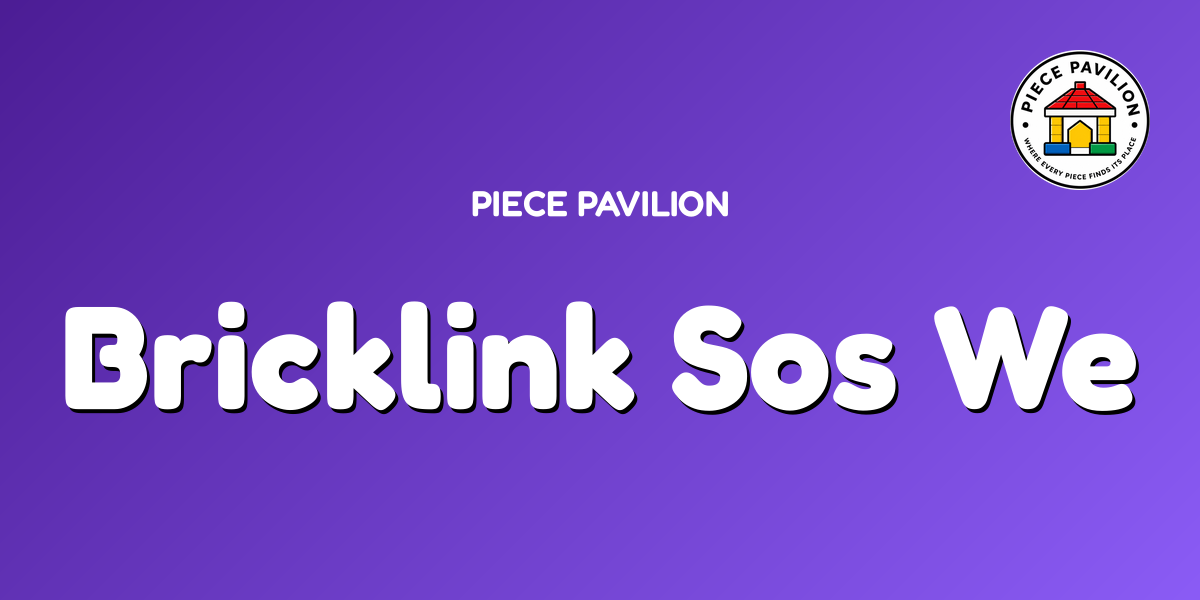
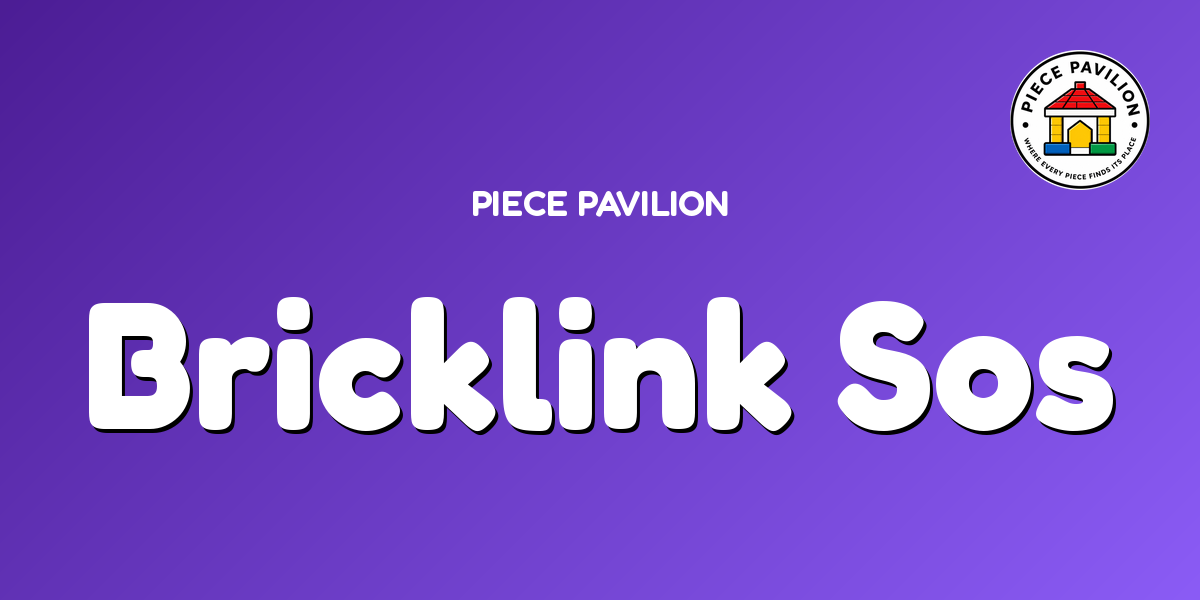
Correct blog cover labels and remove homepage fireworks
Remove only the requested trailing words from two blog thumbnails. Preserve article titles, confetti, seasonal bats and other homepage behavior.

Changed region(s): [[0.0308, 0.48, 0.9558, 0.75], [0.4008, 0.33, 0.5242, 0.36], [0.555, 0.33, 0.6167, 0.36]]

diff --git a/script.js b/script.js
@@ -470,7 +470,7 @@ const loadBannerConfig = () => {
 // the first render. If it misses, renderTicker() leaves the already-
 // visible banner alone (see the is-ready guard in renderTicker).
 // Fire the fetches, but reveal the banner right away so the first
-// visible frame is in sync with the confetti + fireworks. The fetches
+// visible frame is in sync with the confetti. The fetches
 // will enrich the ticker in place when they land.
 loadLatestBlog();
 loadBannerConfig();
@@ -783,7 +783,7 @@ if (usMap) {
 }
 
 // ===== HOMEPAGE WELCOME EFFECT =====
-// Normally fires once per browser session as a confetti burst.
+// Fires on each homepage load as a confetti burst.
 // Switches to flying bats during Halloween week — rules:
 //   - 2026 only:  Oct 29 through Nov 1 at 00:00 local
 //   - 2027+:      Oct 20 through Nov 1 at 06:00 local
@@ -793,9 +793,7 @@ if (usMap) {
   const forced     = /[?&](confetti|bats)/.test(location.search);
   const forceBats  = /[?&]bats/.test(location.search);
   const forceConfetti = /[?&]confetti/.test(location.search) && !forceBats;
-  // Fire on EVERY homepage load (Dad's 2026-11-04 ask): the confetti +
-  // fireworks should play again when he refreshes the page, not stay
-  // suppressed for the rest of the session. Only honour the OS-level
+  // Keep confetti on every homepage load, respecting the OS-level
   // "reduced motion" accessibility preference.
   if (!forced && window.matchMedia('(prefers-reduced-motion: reduce)').matches) return;
 
@@ -822,14 +820,13 @@ if (usMap) {
   cv.width  = window.innerWidth  * dpr;
   cv.height = window.innerHeight * dpr;
 
-  // Delay confetti + fireworks until the banner pops, so the paper +
-  // Fire confetti + fireworks immediately on page load.
+  // Fire confetti immediately on page load.
   {
     if (halloween) runBats(ctx, cv, dpr);
-    else           runConfettiAndFireworks(ctx, cv, dpr);
+    else           runConfetti(ctx, cv, dpr);
   }
 
-  function runConfettiAndFireworks(ctx, cv, dpr) {
+  function runConfetti(ctx, cv, dpr) {
     // Halloween colors (orange + black + purple) inside the Halloween window
     // so even if the bats fail for some reason, the fallback still feels festive.
     const insideHalloween = halloween || isHalloweenWindow(new Date());
@@ -851,107 +848,16 @@ if (usMap) {
         color: COLORS[(Math.random() * COLORS.length) | 0],
       });
     }
-    // --- Fireworks. Each shell is a (cx, cy, when) spawn that bursts into
-    // ~90 radial sparks with gravity + per-spark fade. 14 shells scheduled
-    // across the 5s window. Sparks render as a glow stack (soft outer
-    // halo + bright white core) so they pop against both the light hero
-    // background and whatever hero image Dad swaps in later. A brief
-    // white flash at burst time punches the shell's arrival.
     const t0 = performance.now();
-    // Confetti stays on for 5 s; fireworks run the first 3.5 s so they
-    // feel like a quick celebration rather than a sustained show.
     const DURATION = 5000;
-    const FIREWORKS_WINDOW = 3500;
-    const sparks = [];
-    const flashes = [];
-    const shells = [];
-    for (let i = 0; i < 11; i++) {
-      shells.push({
-        at: t0 + 80 + i * (FIREWORKS_WINDOW / 13) + (Math.random() - 0.5) * 160,
-        cx: (0.08 + Math.random() * 0.84) * cv.width,
-        cy: (0.15 + Math.random() * 0.38) * cv.height,
-        color: COLORS[(Math.random() * COLORS.length) | 0],
-        fired: false,
-      });
-    }
-    // Thinner + shorter per Dad's 2026-11-04 feedback: spark size shrank
-    // (2.6+rand*2.4 -> 1.4+rand*1.0), glow radius shrank (3.5x -> 2.2x),
-    // and decay sped up so each spark fades in ~70 frames instead of ~110.
-    const burstShell = (sh) => {
-      flashes.push({ x: sh.cx, y: sh.cy, life: 1, decay: 0.12, color: sh.color });
-      const N = 80;
-      for (let i = 0; i < N; i++) {
-        const angle = (i / N) * Math.PI * 2 + Math.random() * 0.08;
-        const speed = (4 + Math.random() * 6) * dpr;
-        sparks.push({
-          x: sh.cx,
-          y: sh.cy,
-          vx: Math.cos(angle) * speed,
-          vy: Math.sin(angle) * speed,
-          life: 1,
-          decay: 0.018 + Math.random() * 0.012,
-          color: sh.color,
-          size: (1.4 + Math.random() * 1.0) * dpr,
-        });
-      }
-    };
     (function frame(t) {
       const now = t || performance.now();
       const elapsed = now - t0;
       ctx.clearRect(0, 0, cv.width, cv.height);
       const fade = elapsed > DURATION - 800 ? Math.max(0, (DURATION - elapsed) / 800) : 1;
-      // Fire any shells whose scheduled time has passed.
-      for (const sh of shells) {
-        if (!sh.fired && now >= sh.at) { sh.fired = true; burstShell(sh); }
-      }
-      // --- Draw burst flashes (behind sparks). ---
-      const hexToRgb = (h) => {
-        const m = h.replace("#", "");
-        const v = m.length === 3
-          ? m.split("").map((c) => parseInt(c + c, 16))
-          : [parseInt(m.slice(0, 2), 16), parseInt(m.slice(2, 4), 16), parseInt(m.slice(4, 6), 16)];
-        return v[0] + "," + v[1] + "," + v[2];
-      };
-      ctx.globalCompositeOperation = "lighter";  // additive -- glows read on light or dark
-      for (const f of flashes) {
-        f.life -= f.decay;
-        if (f.life <= 0) continue;
-        const r = (45 + (1 - f.life) * 100) * dpr;
-        const rgb = hexToRgb(f.color);
-        const g = ctx.createRadialGradient(f.x, f.y, 0, f.x, f.y, r);
-        g.addColorStop(0, "rgba(255,255,255," + (0.55 * f.life * fade).toFixed(3) + ")");
-        g.addColorStop(0.4, "rgba(" + rgb + "," + (0.28 * f.life * fade).toFixed(3) + ")");
-        g.addColorStop(1, "rgba(0,0,0,0)");
-        ctx.fillStyle = g;
-        ctx.fillRect(f.x - r, f.y - r, r * 2, r * 2);
-      }
-      // --- Draw fireworks sparks: thinner halo + small white core. ---
-      for (const s of sparks) {
-        s.x += s.vx;  s.y += s.vy;
-        s.vy += 0.08 * dpr;         // gravity, a touch stronger than confetti
-        s.vx *= 0.985;
-        s.life -= s.decay;
-        if (s.life <= 0) continue;
-        const alpha = Math.max(0, s.life) * fade;
-        const r = s.size * Math.max(0.3, s.life);
-        // Outer colored glow (additive-blended). Tighter radius (2.2x) so
-        // sparks read as pinpricks with a halo, not fat dots.
-        const g = ctx.createRadialGradient(s.x, s.y, 0, s.x, s.y, r * 2.2);
-        g.addColorStop(0, s.color);
-        g.addColorStop(1, "rgba(0,0,0,0)");
-        ctx.globalAlpha = alpha * 0.85;
-        ctx.fillStyle = g;
-        ctx.fillRect(s.x - r * 2.2, s.y - r * 2.2, r * 4.4, r * 4.4);
-        // Bright white core, smaller than before so the pinprick is crisp.
-        ctx.globalAlpha = alpha;
-        ctx.beginPath();
-        ctx.arc(s.x, s.y, r * 0.55, 0, Math.PI * 2);
-        ctx.fillStyle = "#ffffff";
-        ctx.fill();
-      }
       ctx.globalCompositeOperation = "source-over";
       ctx.globalAlpha = fade;
-      // --- Draw confetti rectangles on top. ---
+      // --- Draw confetti rectangles. ---
       ctx.globalAlpha = fade;
       for (const p of parts) {
         p.x += p.vx;  p.y += p.vy;
@@ -1213,3 +1119,4 @@ if (navDropdown) {
   window.addEventListener('scroll', onScroll, { passive: true });
   onScroll();
 })();
+

diff --git a/blog/index.html b/blog/index.html
@@ -208,7 +208,7 @@
   <section class="blog-listing">
     <div class="blog-cards">
       <a href="/blog/bricklink-sos-part-2-november-2026/" class="blog-card">
-        <div class="blog-card-thumb"><img src="/thumb/bricklink-sos-part-2-november-2026.png" alt="" loading="lazy" /></div>
+        <div class="blog-card-thumb"><img src="/thumb/bricklink-sos-part-2-november-2026.png?v=20261107-labels" alt="" loading="lazy" /></div>
         <div class="blog-card-body">
           <span class="blog-card-date">November 6, 2026</span>
           <h2>BrickLink SOS Part 2</h2>
@@ -219,7 +219,7 @@
       </a>
 
       <a href="/blog/bricklink-sos-november-2026-outage/" class="blog-card">
-        <div class="blog-card-thumb"><img src="/thumb/bricklink-sos-november-2026-outage.png" alt="" loading="lazy" /></div>
+        <div class="blog-card-thumb"><img src="/thumb/bricklink-sos-november-2026-outage.png?v=20261107-labels" alt="" loading="lazy" /></div>
         <div class="blog-card-body">
           <span class="blog-card-date">November 6, 2026</span>
           <h2>BrickLink SOS: What We Know About the November 2026 Outage</h2>
@@ -887,6 +887,7 @@
   </script>
 </body>
 </html>
+
 
 
 

diff --git a/index.html b/index.html
@@ -1105,7 +1105,7 @@
   </div><!-- end .main-content -->
 
   <script async src="https://f.convertkit.com/ckjs/ck.5.js" integrity="sha384-jrPr3cryOobCciVpnyICbK0gXiRQxFQMYLwmA1ncyFPJg3m6jwTkIPWwOgJo2lPj" crossorigin="anonymous"></script>
-  <script src="script.js?v=20261105b"></script>
+  <script src="script.js?v=20261107-confetti"></script>
   <!--
     Client-side override for homepage featured items. Reads Dad's staff-editor
     picks from /featured/overrides.json (served by the pp-partout worker from

diff --git a/scripts/rebuild_blog_listing.py b/scripts/rebuild_blog_listing.py
@@ -197,7 +197,7 @@ def generate_thumb_png(title, slug, out_path):
     draw.text(((W - lw) // 2, 180), label, font=label_font, fill=label_ink)
 
     # Big phrase in Fredoka Bold, centered horizontally.
-    phrase = thumb_phrase(title)
+    phrase = thumb_phrase(title, slug)
     font = _fit_font(draw, phrase, FONT_BOLD, W - 120, 180, min_size=72)
     bbox = draw.textbbox((0, 0), phrase, font=font)
     text_w = bbox[2] - bbox[0]
@@ -213,10 +213,19 @@ def generate_thumb_png(title, slug, out_path):
     img.save(out_path, "PNG", optimize=True)
 
 
-def thumb_phrase(title):
+# Explicitly approved thumbnail wording. Full article titles stay unchanged.
+THUMB_PHRASE_OVERRIDES = {
+    "bricklink-sos-part-2-november-2026": "Bricklink Sos",
+    "bricklink-sos-november-2026-outage": "Bricklink Sos",
+}
+
+
+def thumb_phrase(title, slug=None):
     """Pick a 1-3 word punchy phrase in Title Case for the SVG placeholder.
     Models the hand-made thumbs ('Advent 2026', 'Halloween Guide',
     'Minifig Values')."""
+    if slug in THUMB_PHRASE_OVERRIDES:
+        return THUMB_PHRASE_OVERRIDES[slug]
     if not title:
         return "New Post"
     words = re.sub(r"[:,.\!\?]", " ", title).split()
@@ -430,7 +439,8 @@ def render_cards(posts):
     lines = ["\n"]
     for p in posts:
         href = "/blog/%s/" % p["slug"]
-        thumb = '<img src="/thumb/%s.png" alt="" loading="lazy" />' % p["slug"]
+        thumb_version = "?v=20261107-labels" if p["slug"] in THUMB_PHRASE_OVERRIDES else ""
+        thumb = '<img src="/thumb/%s.png%s" alt="" loading="lazy" />' % (p["slug"], thumb_version)
         slug_attr = html.escape(p["slug"], quote=True)
         badge = '<span class="view-badge" data-slug="%s" aria-label="0 views">0</span>' % slug_attr
         card = (
@@ -645,3 +655,4 @@ def write_latest_json(slug):
 
 if __name__ == "__main__":
     main()
+

diff --git a/tests/test_sos_thumbnail_labels.py b/tests/test_sos_thumbnail_labels.py
@@ -1,0 +1,24 @@
+import importlib.util
+from pathlib import Path
+import unittest
+ROOT=Path(__file__).resolve().parents[1]
+spec=importlib.util.spec_from_file_location('listing',ROOT/'scripts/rebuild_blog_listing.py')
+listing=importlib.util.module_from_spec(spec);spec.loader.exec_module(listing)
+class ThumbnailLabels(unittest.TestCase):
+ def test_only_requested_labels_are_overridden(self):
+  cases=[('bricklink-sos-part-2-november-2026','BrickLink SOS Part 2'),('bricklink-sos-november-2026-outage','BrickLink SOS: What We Know About the November 2026 Outage')]
+  self.assertEqual(len(listing.THUMB_PHRASE_OVERRIDES),2)
+  for slug,title in cases:self.assertEqual(listing.thumb_phrase(title,slug),'Bricklink Sos')
+  self.assertEqual(listing.thumb_phrase('BrickLink SOS Part 2','unrelated'),'Bricklink Sos Part')
+ def test_listing_preserves_headlines_and_cache_busts_only_fixed_covers(self):
+  posts=[dict(slug=slug,title=title,desc='Keep the description',date_display='November 6, 2026') for slug,title in [('bricklink-sos-part-2-november-2026','BrickLink SOS Part 2'),('bricklink-sos-november-2026-outage','BrickLink SOS: What We Know About the November 2026 Outage'),('unrelated','Another title')]]
+  html=listing.render_cards(posts)
+  for p in posts:self.assertIn('<h2>'+p['title']+'</h2>',html)
+  self.assertEqual(html.count('?v=20261107-labels'),2)
+  self.assertIn('/thumb/unrelated.png"',html)
+ def test_actual_listing_keeps_article_names(self):
+  html=(ROOT/'blog/index.html').read_text()
+  self.assertIn('<h2>BrickLink SOS Part 2</h2>',html)
+  self.assertIn('<h2>BrickLink SOS: What We Know About the November 2026 Outage</h2>',html)
+  self.assertEqual(html.count('?v=20261107-labels'),2)
+if __name__=='__main__':unittest.main()
